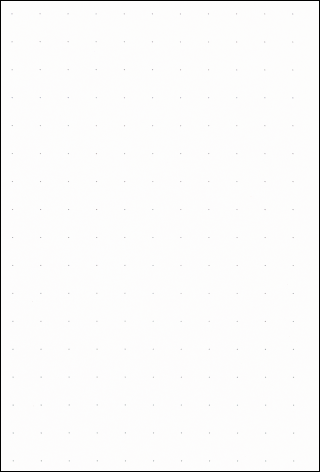
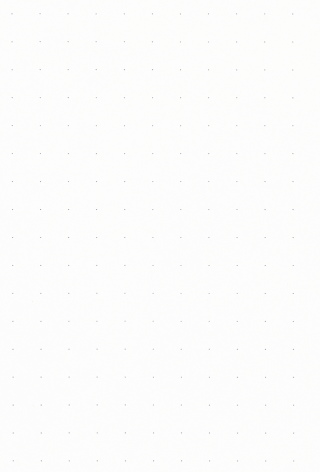
add background, fix mob

diff --git a/src/scss/styles.scss b/src/scss/styles.scss
@@ -44,54 +44,32 @@ main {
   border-left: 1px solid #020202;
 
   @include media(mobile) {
-    // background-image: url('/img/background/substrate-mob@2x.png');
-    // // background-repeat: repeat-y;
-    // background-position: center;
-    // background-size: contain;
-
-    //background: linear-gradient(
-    //     rgba(233, 242, 255, 0.7),
-    //     rgb(233, 242, 255, 0.7)
-    //   ),
-    //   url('/img/background/background-mobile@1x.jpg') repeat-y center;
-    // background-size: cover;
-    // background-position: 14px -10px;
+    background: url('/img/background/substrate-mob@1x.png') repeat top left 5px /
+        320px auto,
+      linear-gradient(to bottom, $_main_bg_color, $_main_bg_color);
   }
 
   @include media(desktop) {
-    //   background: linear-gradient(
-    //       rgba(233, 242, 255, 0.7),
-    //       rgb(233, 242, 255, 0.7)
-    //     ),
-    //     url('/img/background/background-desk@1x.jpg') repeat-y center;
-    //   background-size: cover;
-    //   background-position: 14px -14px;
-    // }
+    background: url('/img/background/substrate-desk@1x.png') repeat top left
+        17px / 1200px auto,
+      linear-gradient(to bottom, $_main_bg_color, $_main_bg_color);
   }
 }
 
 @media screen and (min-resolution: 192dpi) {
-  // .background {
-  //   background: linear-gradient(
-  //       rgba(233, 242, 255, 0.7),
-  //       rgba(233, 242, 255, 0.7)
-  //     ),
-  //     url(/img/background/background-mobile@2x.jpg) repeat-y center;
-  //   background-size: cover;
-  //   background-position: 14px -10px;
-  // }
+  .background {
+    background: url('/img/background/substrate-mob@2x.png') repeat top left 6px /
+        320px auto,
+      linear-gradient(to bottom, $_main_bg_color, $_main_bg_color);
+  }
 }
 
 @media screen and (min-resolution: 192dpi) and (min-width: 1200px) {
-  // .background {
-  //   background: linear-gradient(
-  //       rgba(233, 242, 255, 0.7),
-  //       rgba(233, 242, 255, 0.7)
-  //     ),
-  //     url('../img/background/background-desk@2x.jpg') repeat-y center;
-  //   background-size: cover;
-  //   background-position: 14px -14px;
-  // }
+  .background {
+    background: url('/img/background/substrate-desk@2x.png') repeat top left
+        16px / 1200px auto,
+      linear-gradient(to bottom, $_main_bg_color, $_main_bg_color);
+  }
 }
 
 .title {

diff --git a/src/scss/header.css b/src/scss/header.css
@@ -88,7 +88,7 @@ header .header-container {
 }
 .mob-menu.is-closing {
   transform: translateX(100%);
-  transition: transform 0.3s ease-in-out; /* Ефект анімації для закриття */
+  transition: transform 0.3s ease-in-out;
 }
 .mob-menu {
   position: fixed;
@@ -104,6 +104,7 @@ header .header-container {
 .mobile-background-img {
   position: absolute;
   inset: 0;
+  z-index: 11;
   background: url('/img/background/icons/mobile-man.svg') no-repeat bottom
       101.39px left 128px / 63.93px 77.61px,
     url('/img/background/icons/mobile-splash.svg') no-repeat bottom 125.83px
@@ -116,12 +117,16 @@ header .header-container {
 }
 .menu-close-btn {
   position: absolute;
-  top: 56px;
-  right: 16px;
+  top: 40px;
+  right: 0;
+  z-index: 13;
   border: none;
   background-color: transparent;
+  padding: 16px;
 }
 .nav-list-mobile {
+  position: relative;
+  z-index: 12;
   display: flex;
   flex-direction: column;
   gap: 40px;
